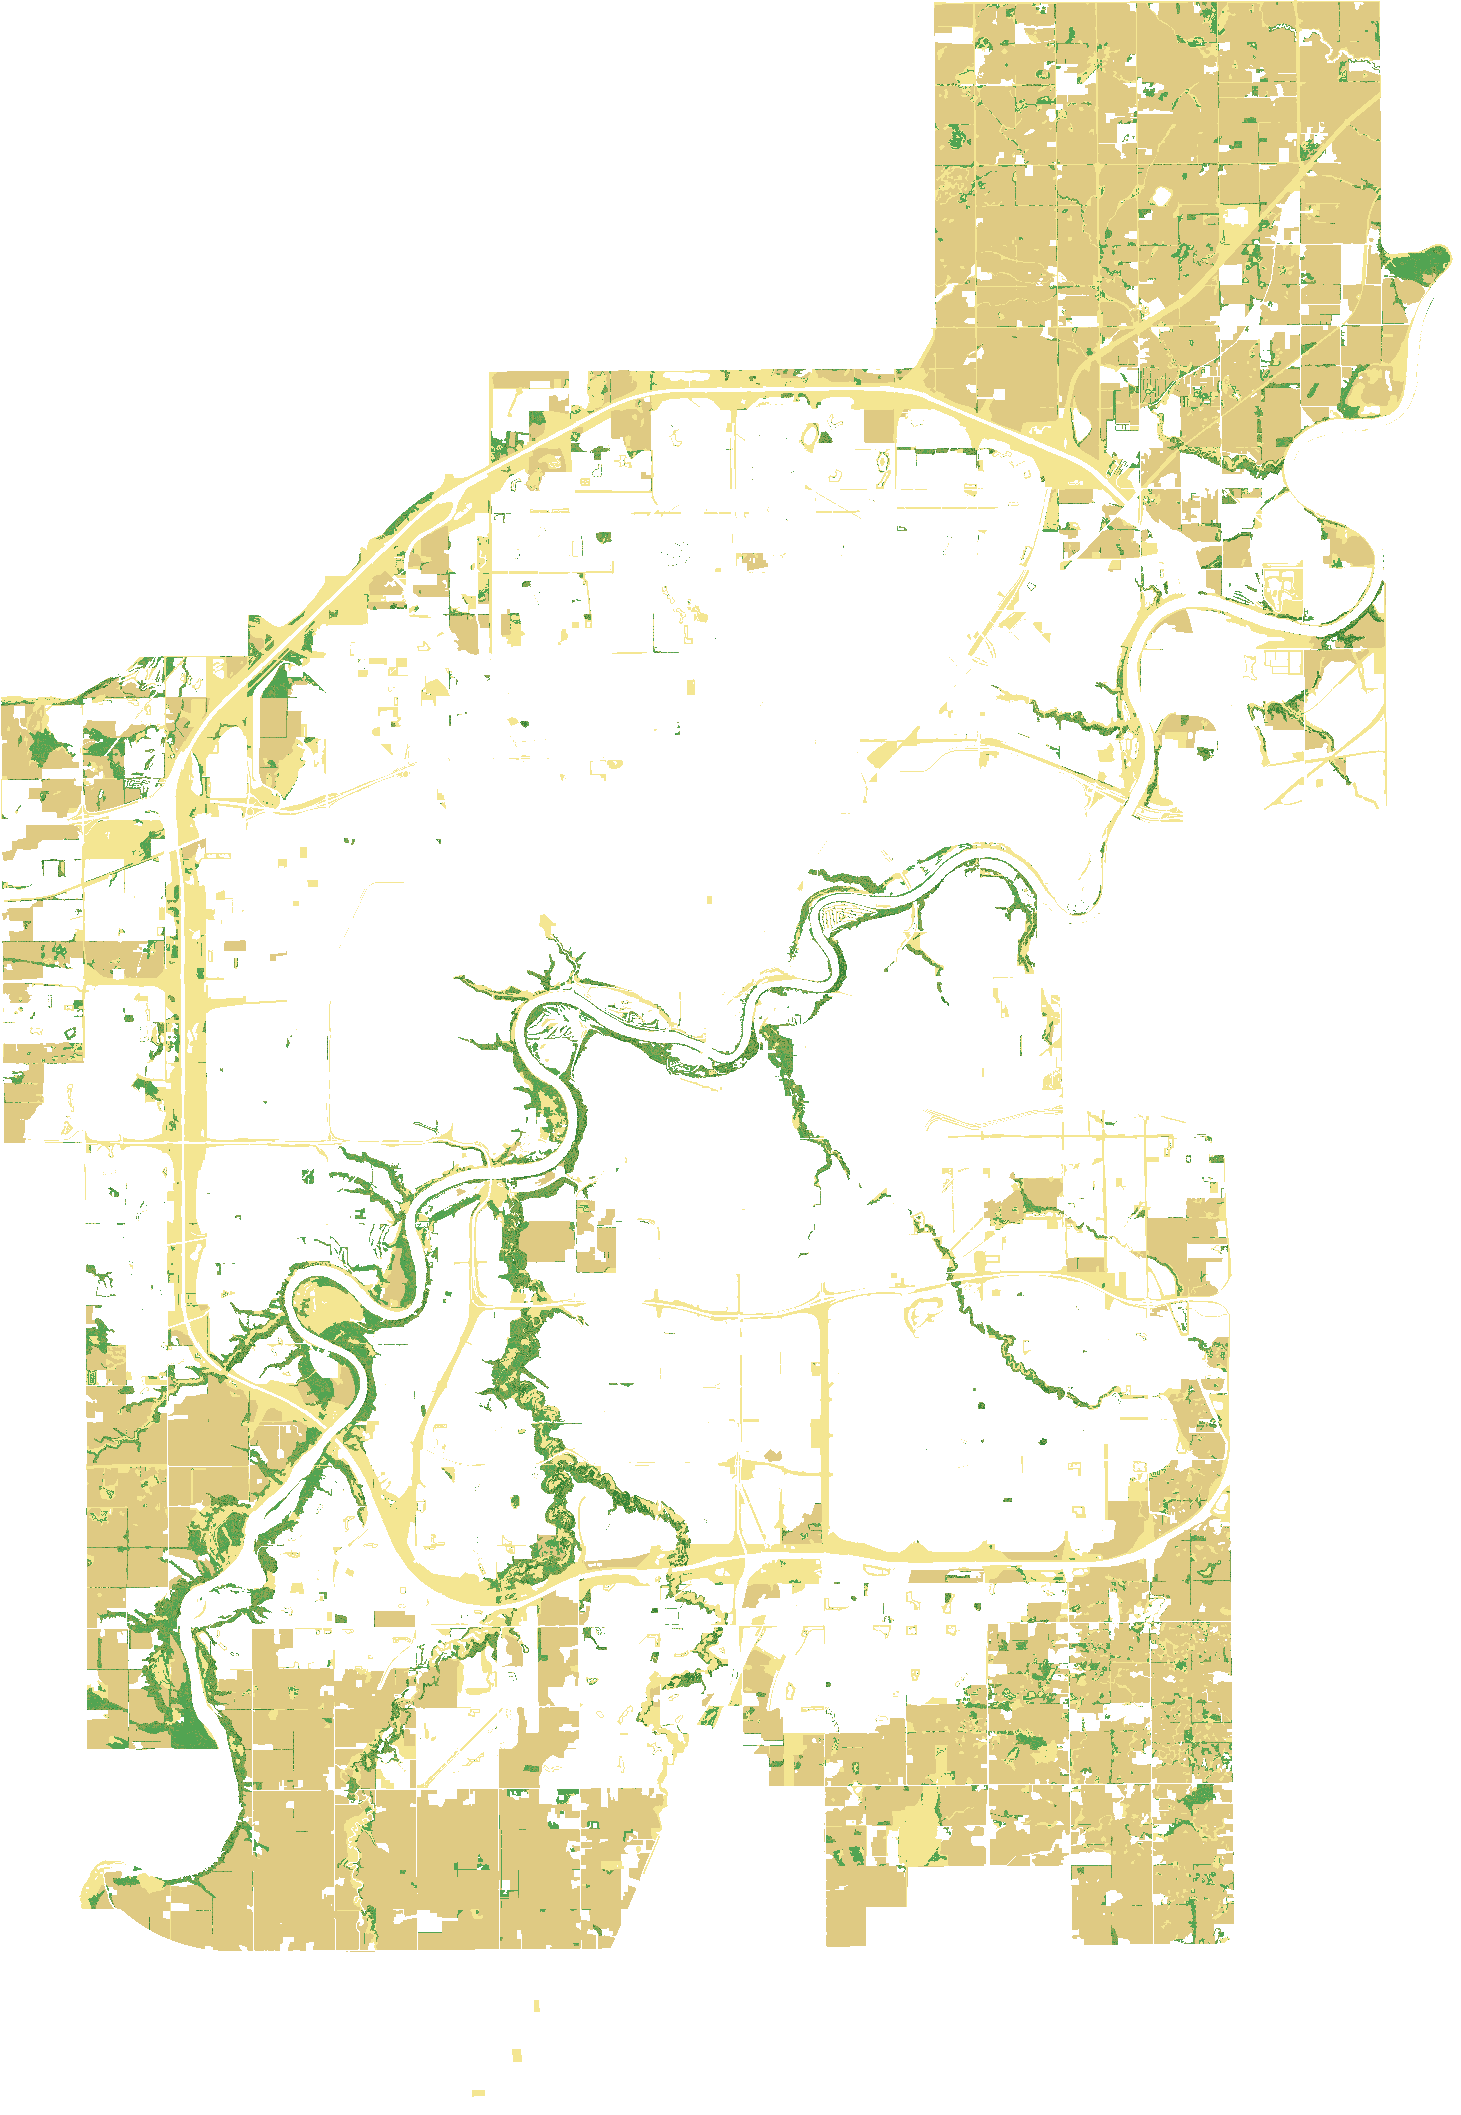
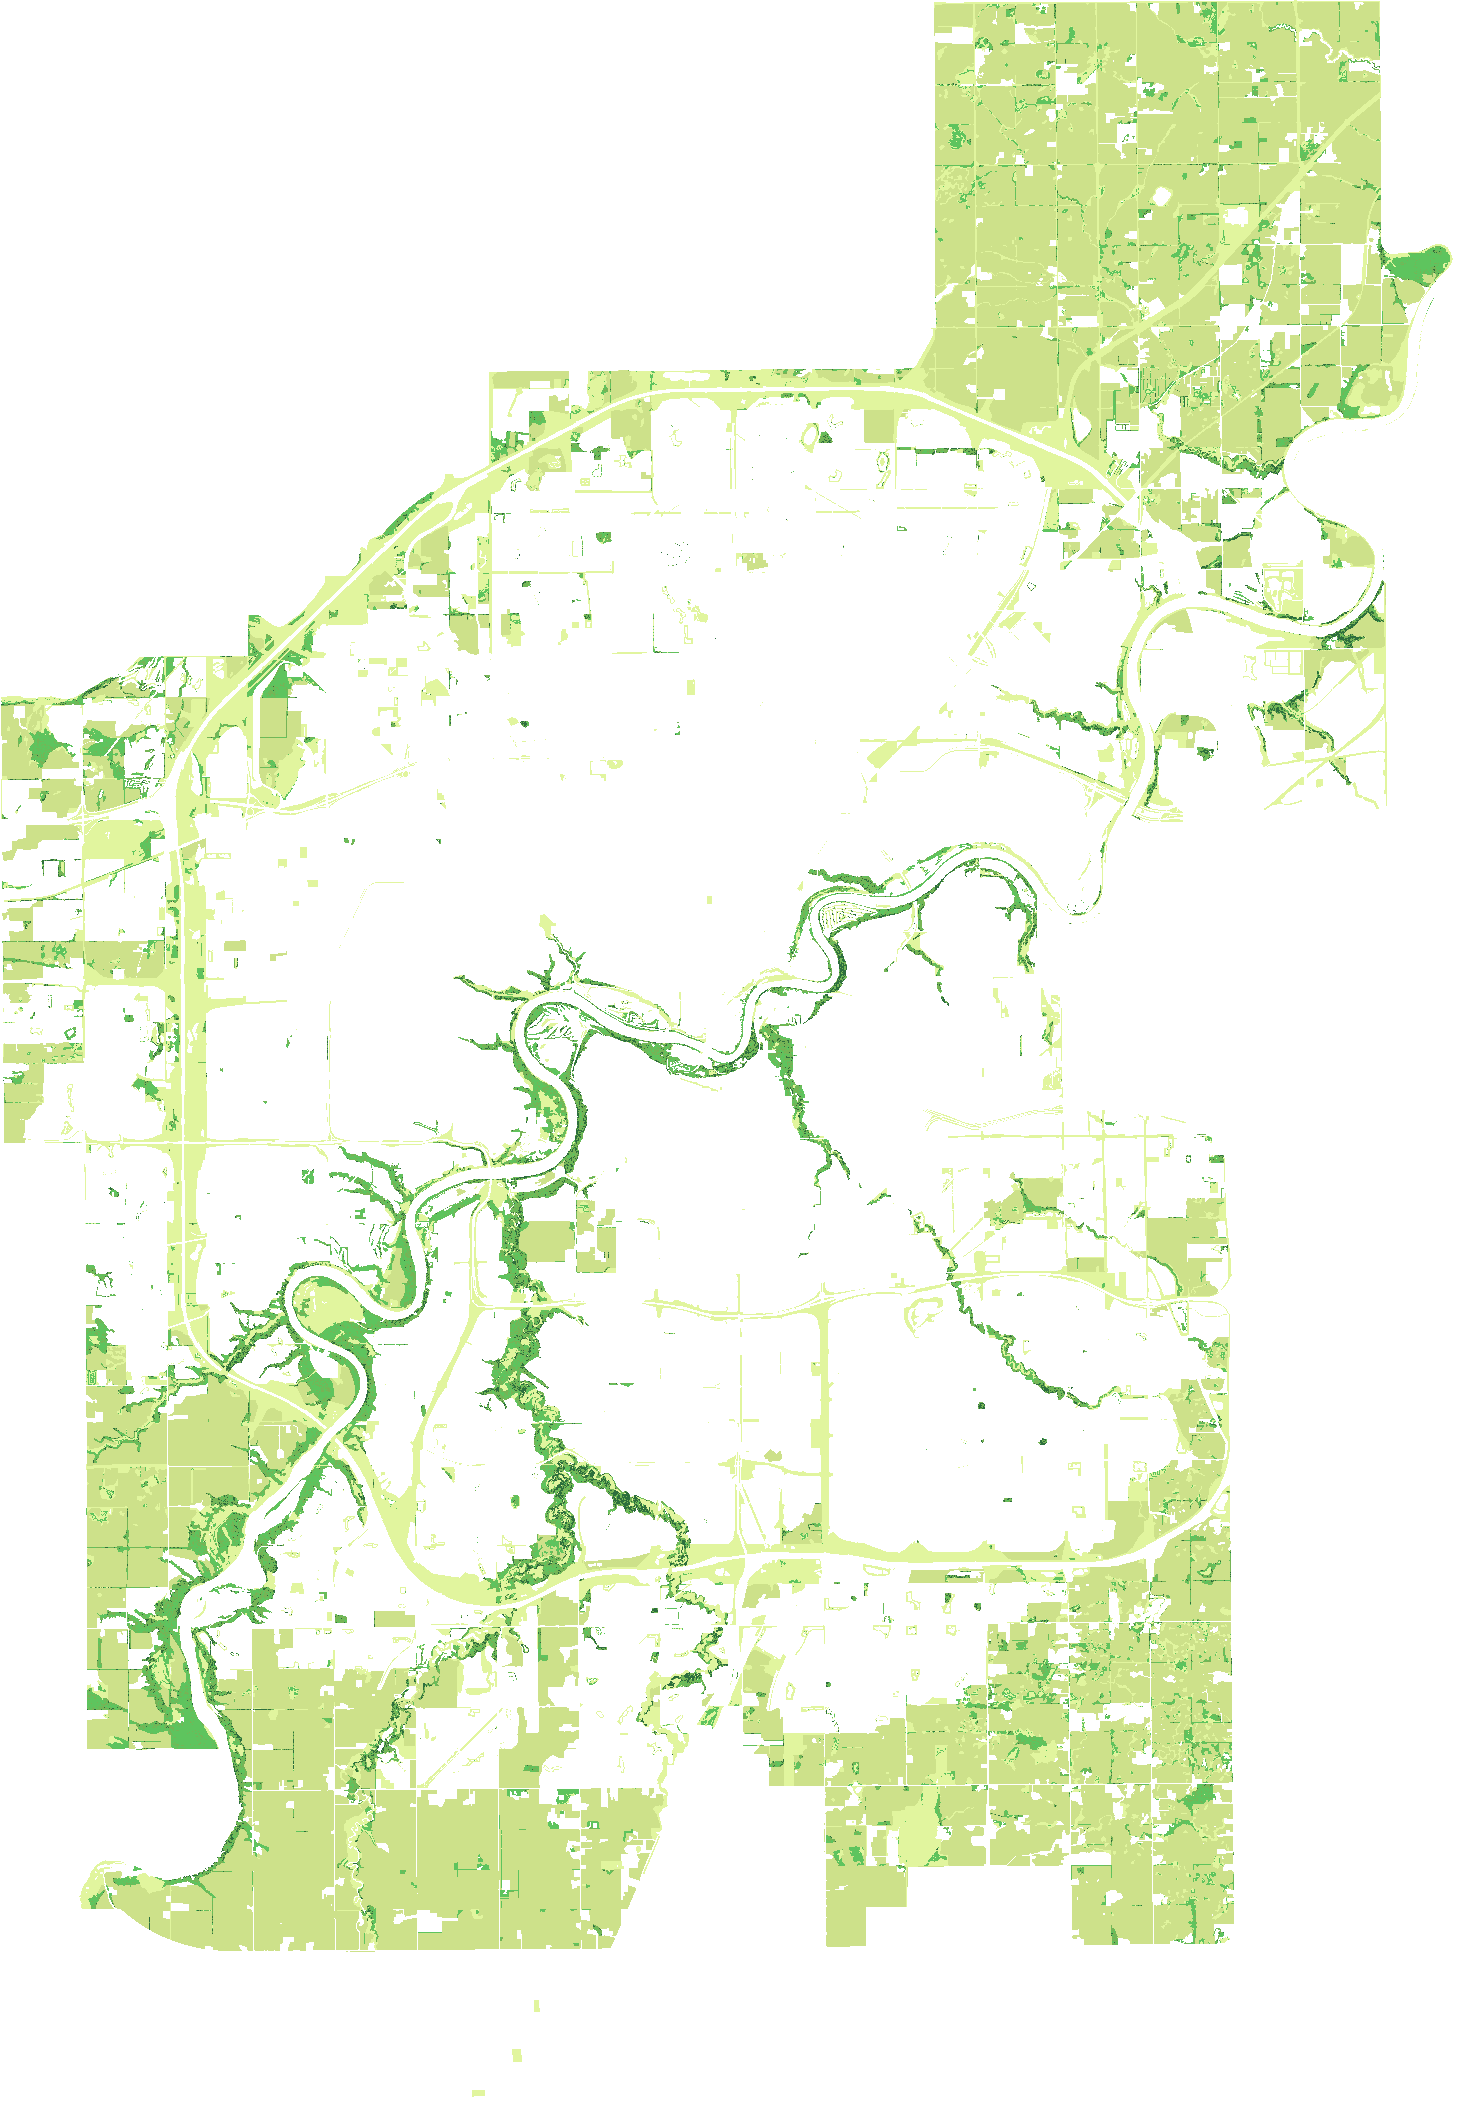
Brighter fuel type colors, add Standard vs High HFI scenario explanation
- Regenerated fuel type PNG with more saturated greens (no more brown)
- Added scenario comparison card explaining Standard vs High HFI conditions
- Updated legend and table swatches to match new colors

diff --git a/index.html b/index.html
@@ -122,11 +122,11 @@
             <h3>Fuel Type Distribution</h3>
             <table>
                 <tr><th>Type</th><th>Code</th><th style="text-align:right">Area (ha)</th><th style="text-align:right">%</th></tr>
-                <tr><td><span class="fuel-swatch" style="background:#006400;display:inline-block;vertical-align:middle"></span> C-2 Boreal Spruce</td><td>2</td><td class="num">506</td><td class="num">0.6%</td></tr>
-                <tr><td><span class="fuel-swatch" style="background:#228b22;display:inline-block;vertical-align:middle"></span> D-2 Green Aspen</td><td>12</td><td class="num">2,129</td><td class="num">2.7%</td></tr>
-                <tr><td><span class="fuel-swatch" style="background:#6b8e23;display:inline-block;vertical-align:middle"></span> M-2 Boreal Mixedwood</td><td>14</td><td class="num">1,746</td><td class="num">2.2%</td></tr>
-                <tr><td><span class="fuel-swatch" style="background:#d2b450;display:inline-block;vertical-align:middle"></span> O-1a Matted Grass</td><td>31</td><td class="num">16,984</td><td class="num">21.7%</td></tr>
-                <tr><td><span class="fuel-swatch" style="background:#f0dc64;display:inline-block;vertical-align:middle"></span> O-1b Standing Grass</td><td>32</td><td class="num">7,644</td><td class="num">9.7%</td></tr>
+                <tr><td><span class="fuel-swatch" style="background:#005014;display:inline-block;vertical-align:middle"></span> C-2 Boreal Spruce</td><td>2</td><td class="num">506</td><td class="num">0.6%</td></tr>
+                <tr><td><span class="fuel-swatch" style="background:#32b432;display:inline-block;vertical-align:middle"></span> D-2 Green Aspen</td><td>12</td><td class="num">2,129</td><td class="num">2.7%</td></tr>
+                <tr><td><span class="fuel-swatch" style="background:#50a028;display:inline-block;vertical-align:middle"></span> M-2 Boreal Mixedwood</td><td>14</td><td class="num">1,746</td><td class="num">2.2%</td></tr>
+                <tr><td><span class="fuel-swatch" style="background:#b4d250;display:inline-block;vertical-align:middle"></span> O-1a Matted Grass</td><td>31</td><td class="num">16,984</td><td class="num">21.7%</td></tr>
+                <tr><td><span class="fuel-swatch" style="background:#d2f06e;display:inline-block;vertical-align:middle"></span> O-1b Standing Grass</td><td>32</td><td class="num">7,644</td><td class="num">9.7%</td></tr>
                 <tr><td style="color:#666">NF Non-fuel</td><td>99</td><td class="num">49,434</td><td class="num">63.0%</td></tr>
             </table>
             <p style="margin-top:0.8rem">Grid: <code>1461 &times; 2115</code> cells &bull; Total fuel: <strong>29,008 ha</strong></p>
@@ -134,11 +134,29 @@
     </div>
 
     <div class="section-title">Burn Probability Simulation</div>
-    <div class="section-desc">Monte Carlo fire simulation using Head Fire Weather Index (HFWI) conditions</div>
+    <div class="section-desc">Monte Carlo fire simulation comparing two fire weather scenarios</div>
 
     <div class="grid">
+        <div class="card" style="grid-column: 1 / -1;">
+            <h3>Two Scenarios: Standard vs. High HFI</h3>
+            <p>Two fire weather scenarios were modelled to bracket the range of wildfire risk across Edmonton's natural areas:</p>
+            <table>
+                <tr><th>Scenario</th><th>Description</th><th>Fire Weather Conditions</th></tr>
+                <tr>
+                    <td><strong>Standard</strong></td>
+                    <td>Represents typical summer fire weather using mean seasonal FWI values. Most ignitions self-extinguish or remain small. Provides a baseline probability of fire occurrence under normal conditions.</td>
+                    <td>Mean seasonal FFMC, ISI, and BUI values from Edmonton-area weather stations</td>
+                </tr>
+                <tr>
+                    <td><strong>High HFI Summer</strong></td>
+                    <td>Represents peak fire danger using elevated Head Fire Intensity conditions (90th+ percentile fire weather). Fires spread rapidly through grass and into forest fuels along the river valley, producing the yellow/orange/red corridors visible on the map.</td>
+                    <td>90th percentile+ FFMC, ISI, and BUI values reflecting drought and high-wind conditions</td>
+                </tr>
+            </table>
+            <p style="margin-top:0.8rem">Toggle between scenarios using the layer control on the map. The contrast between them illustrates how sensitive Edmonton's urban-wildland interface is to fire weather escalation.</p>
+        </div>
         <div class="card">
-            <h3>Simulation Parameters</h3>
+            <h3>Simulation Parameters (High HFI)</h3>
             <p>Fire ignitions were simulated across the Edmonton fuel grid using the BurnP3 framework with <strong>500 iterations</strong> and randomized ignition locations weighted by fuel availability.</p>
             <table>
                 <tr><th>Parameter</th><th style="text-align:right">Value</th></tr>
@@ -257,11 +275,11 @@
         const div = L.DomUtil.create('div', 'legend-control');
         div.innerHTML = `
             <h4>Fuel Types (CFFDRS)</h4>
-            <div class="legend-item"><div class="legend-color" style="background:#006400"></div> C-2 Boreal Spruce</div>
-            <div class="legend-item"><div class="legend-color" style="background:#228b22"></div> D-2 Green Aspen</div>
-            <div class="legend-item"><div class="legend-color" style="background:#6b8e23"></div> M-2 Boreal Mixedwood</div>
-            <div class="legend-item"><div class="legend-color" style="background:#d2b450"></div> O-1a Matted Grass</div>
-            <div class="legend-item"><div class="legend-color" style="background:#f0dc64"></div> O-1b Standing Grass</div>
+            <div class="legend-item"><div class="legend-color" style="background:#005014"></div> C-2 Boreal Spruce</div>
+            <div class="legend-item"><div class="legend-color" style="background:#32b432"></div> D-2 Green Aspen</div>
+            <div class="legend-item"><div class="legend-color" style="background:#50a028"></div> M-2 Boreal Mixedwood</div>
+            <div class="legend-item"><div class="legend-color" style="background:#b4d250"></div> O-1a Matted Grass</div>
+            <div class="legend-item"><div class="legend-color" style="background:#d2f06e"></div> O-1b Standing Grass</div>
             <h4 style="margin-top:8px">Burn Probability</h4>
             <div class="legend-item"><div class="legend-color" style="background:#ffff00"></div> Low</div>
             <div class="legend-item"><div class="legend-color" style="background:#ff8c00"></div> Moderate</div>
